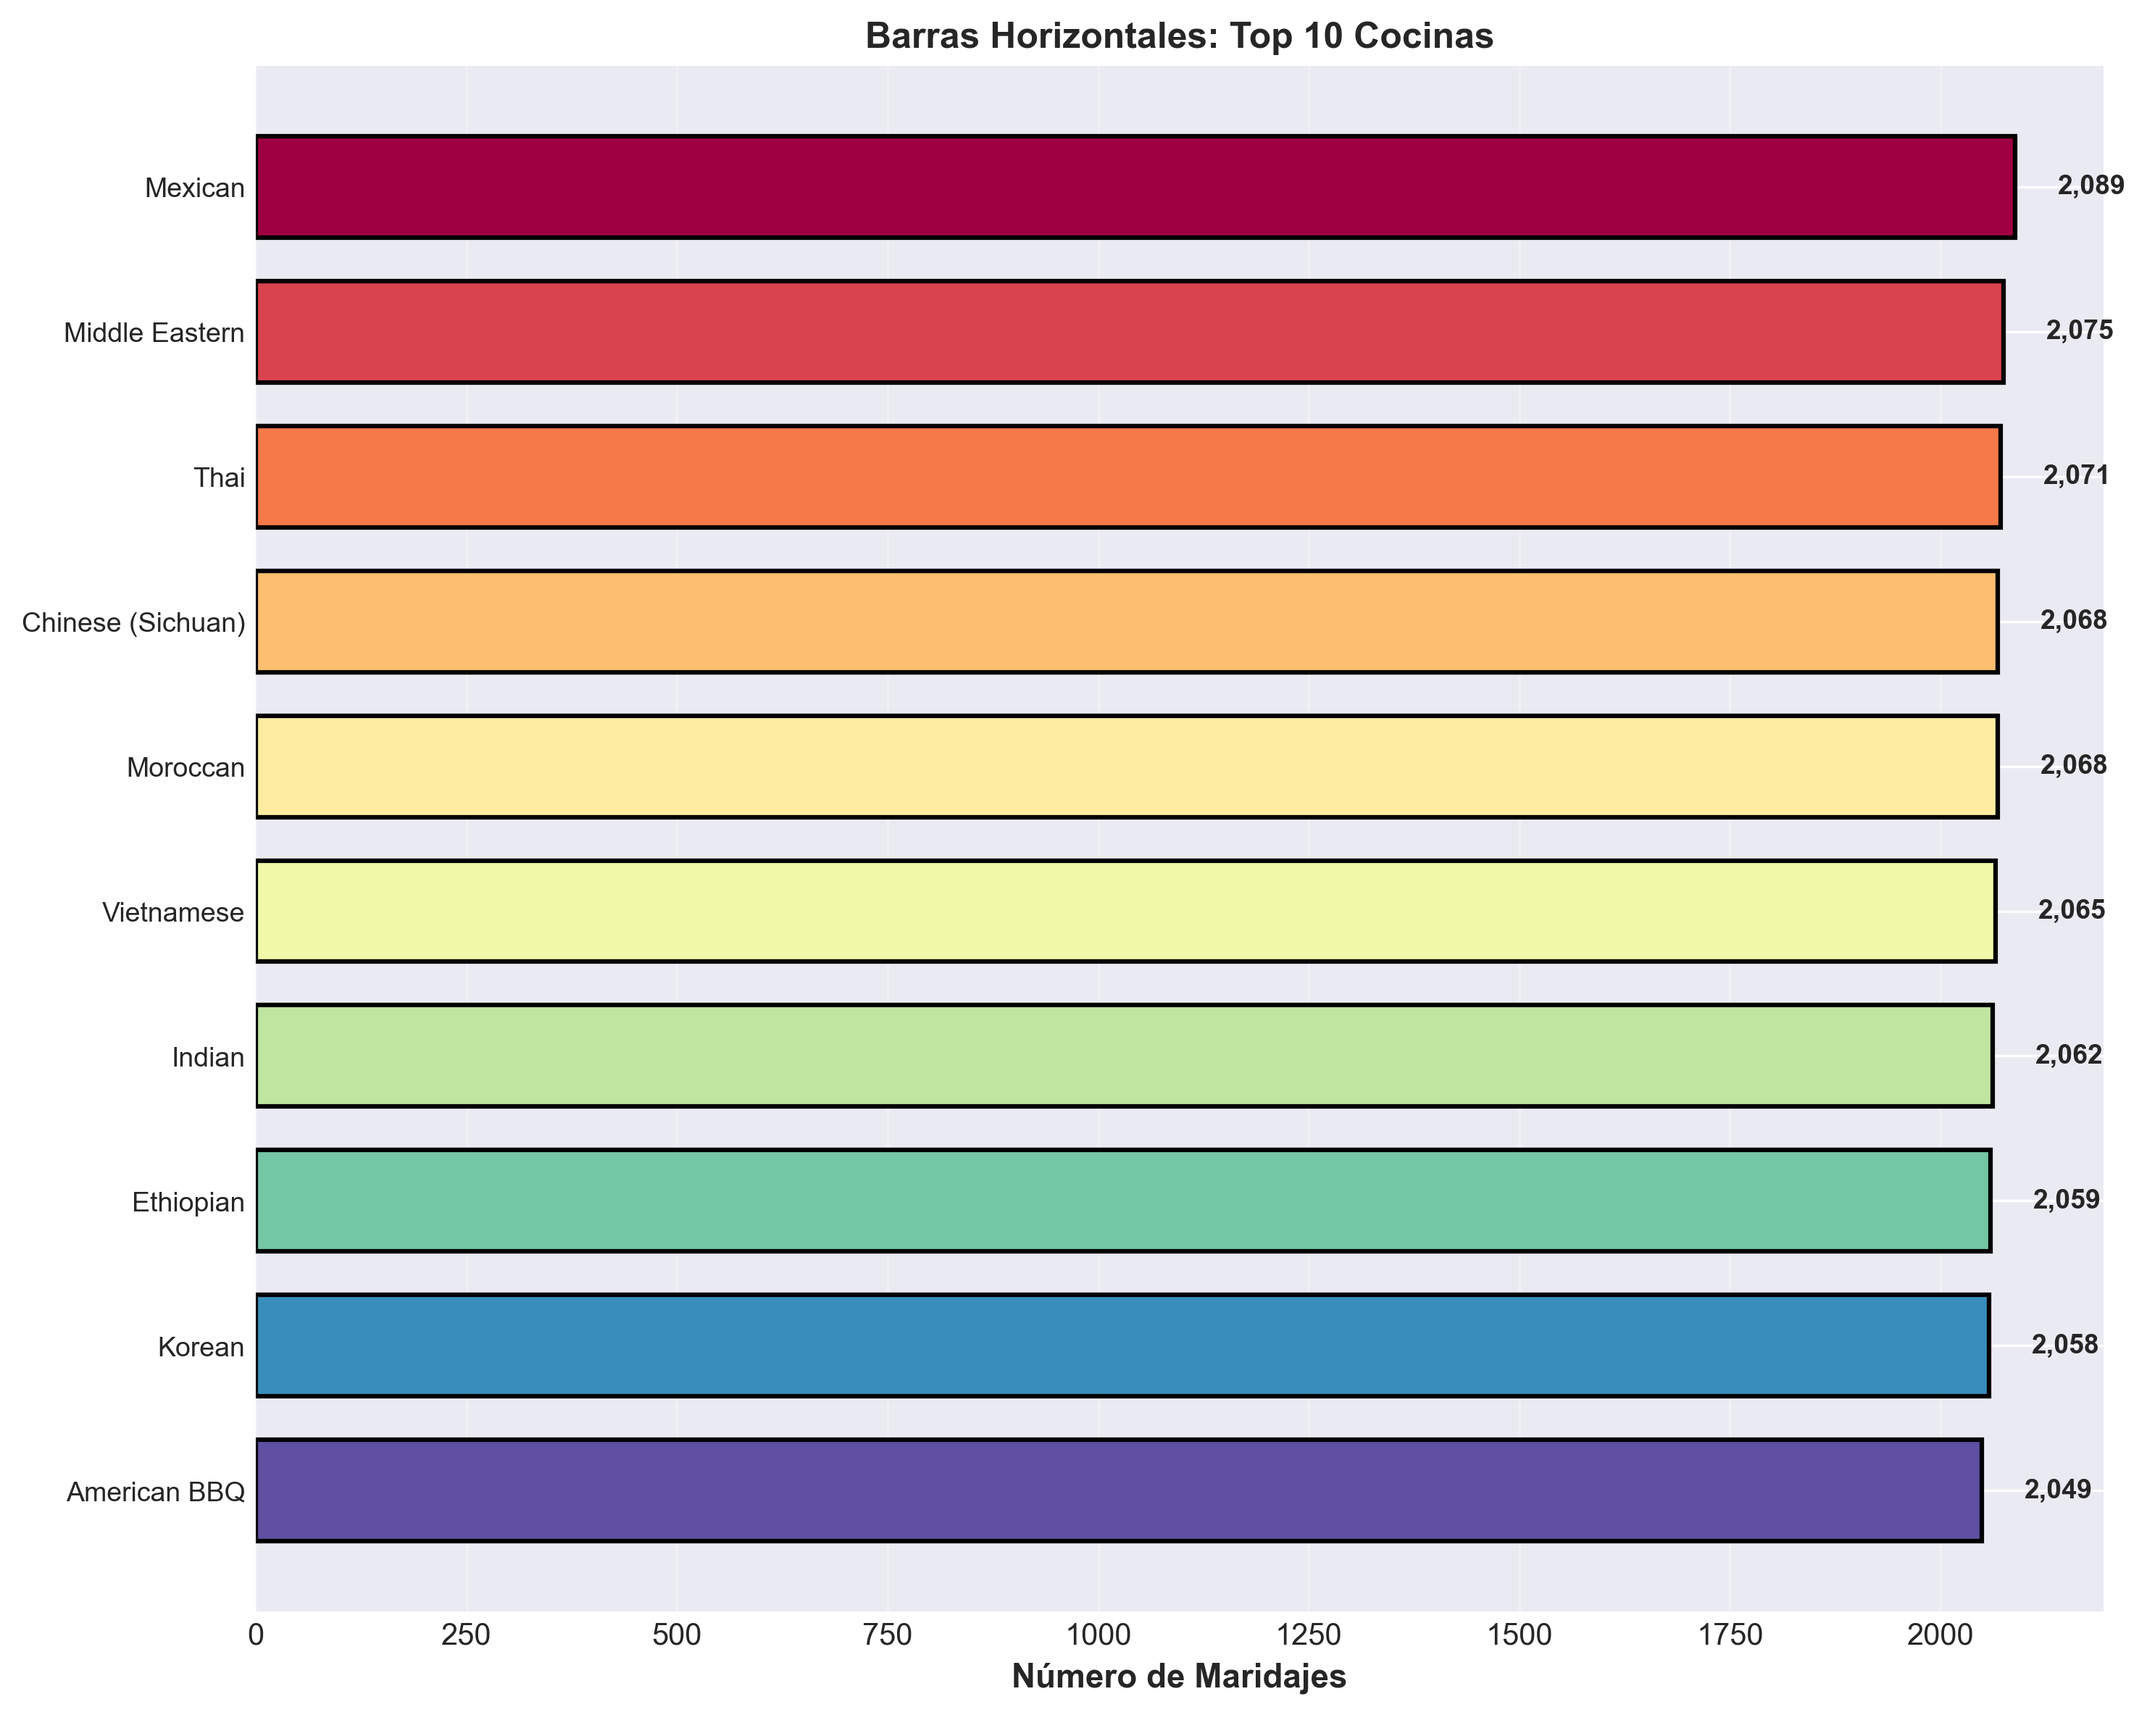
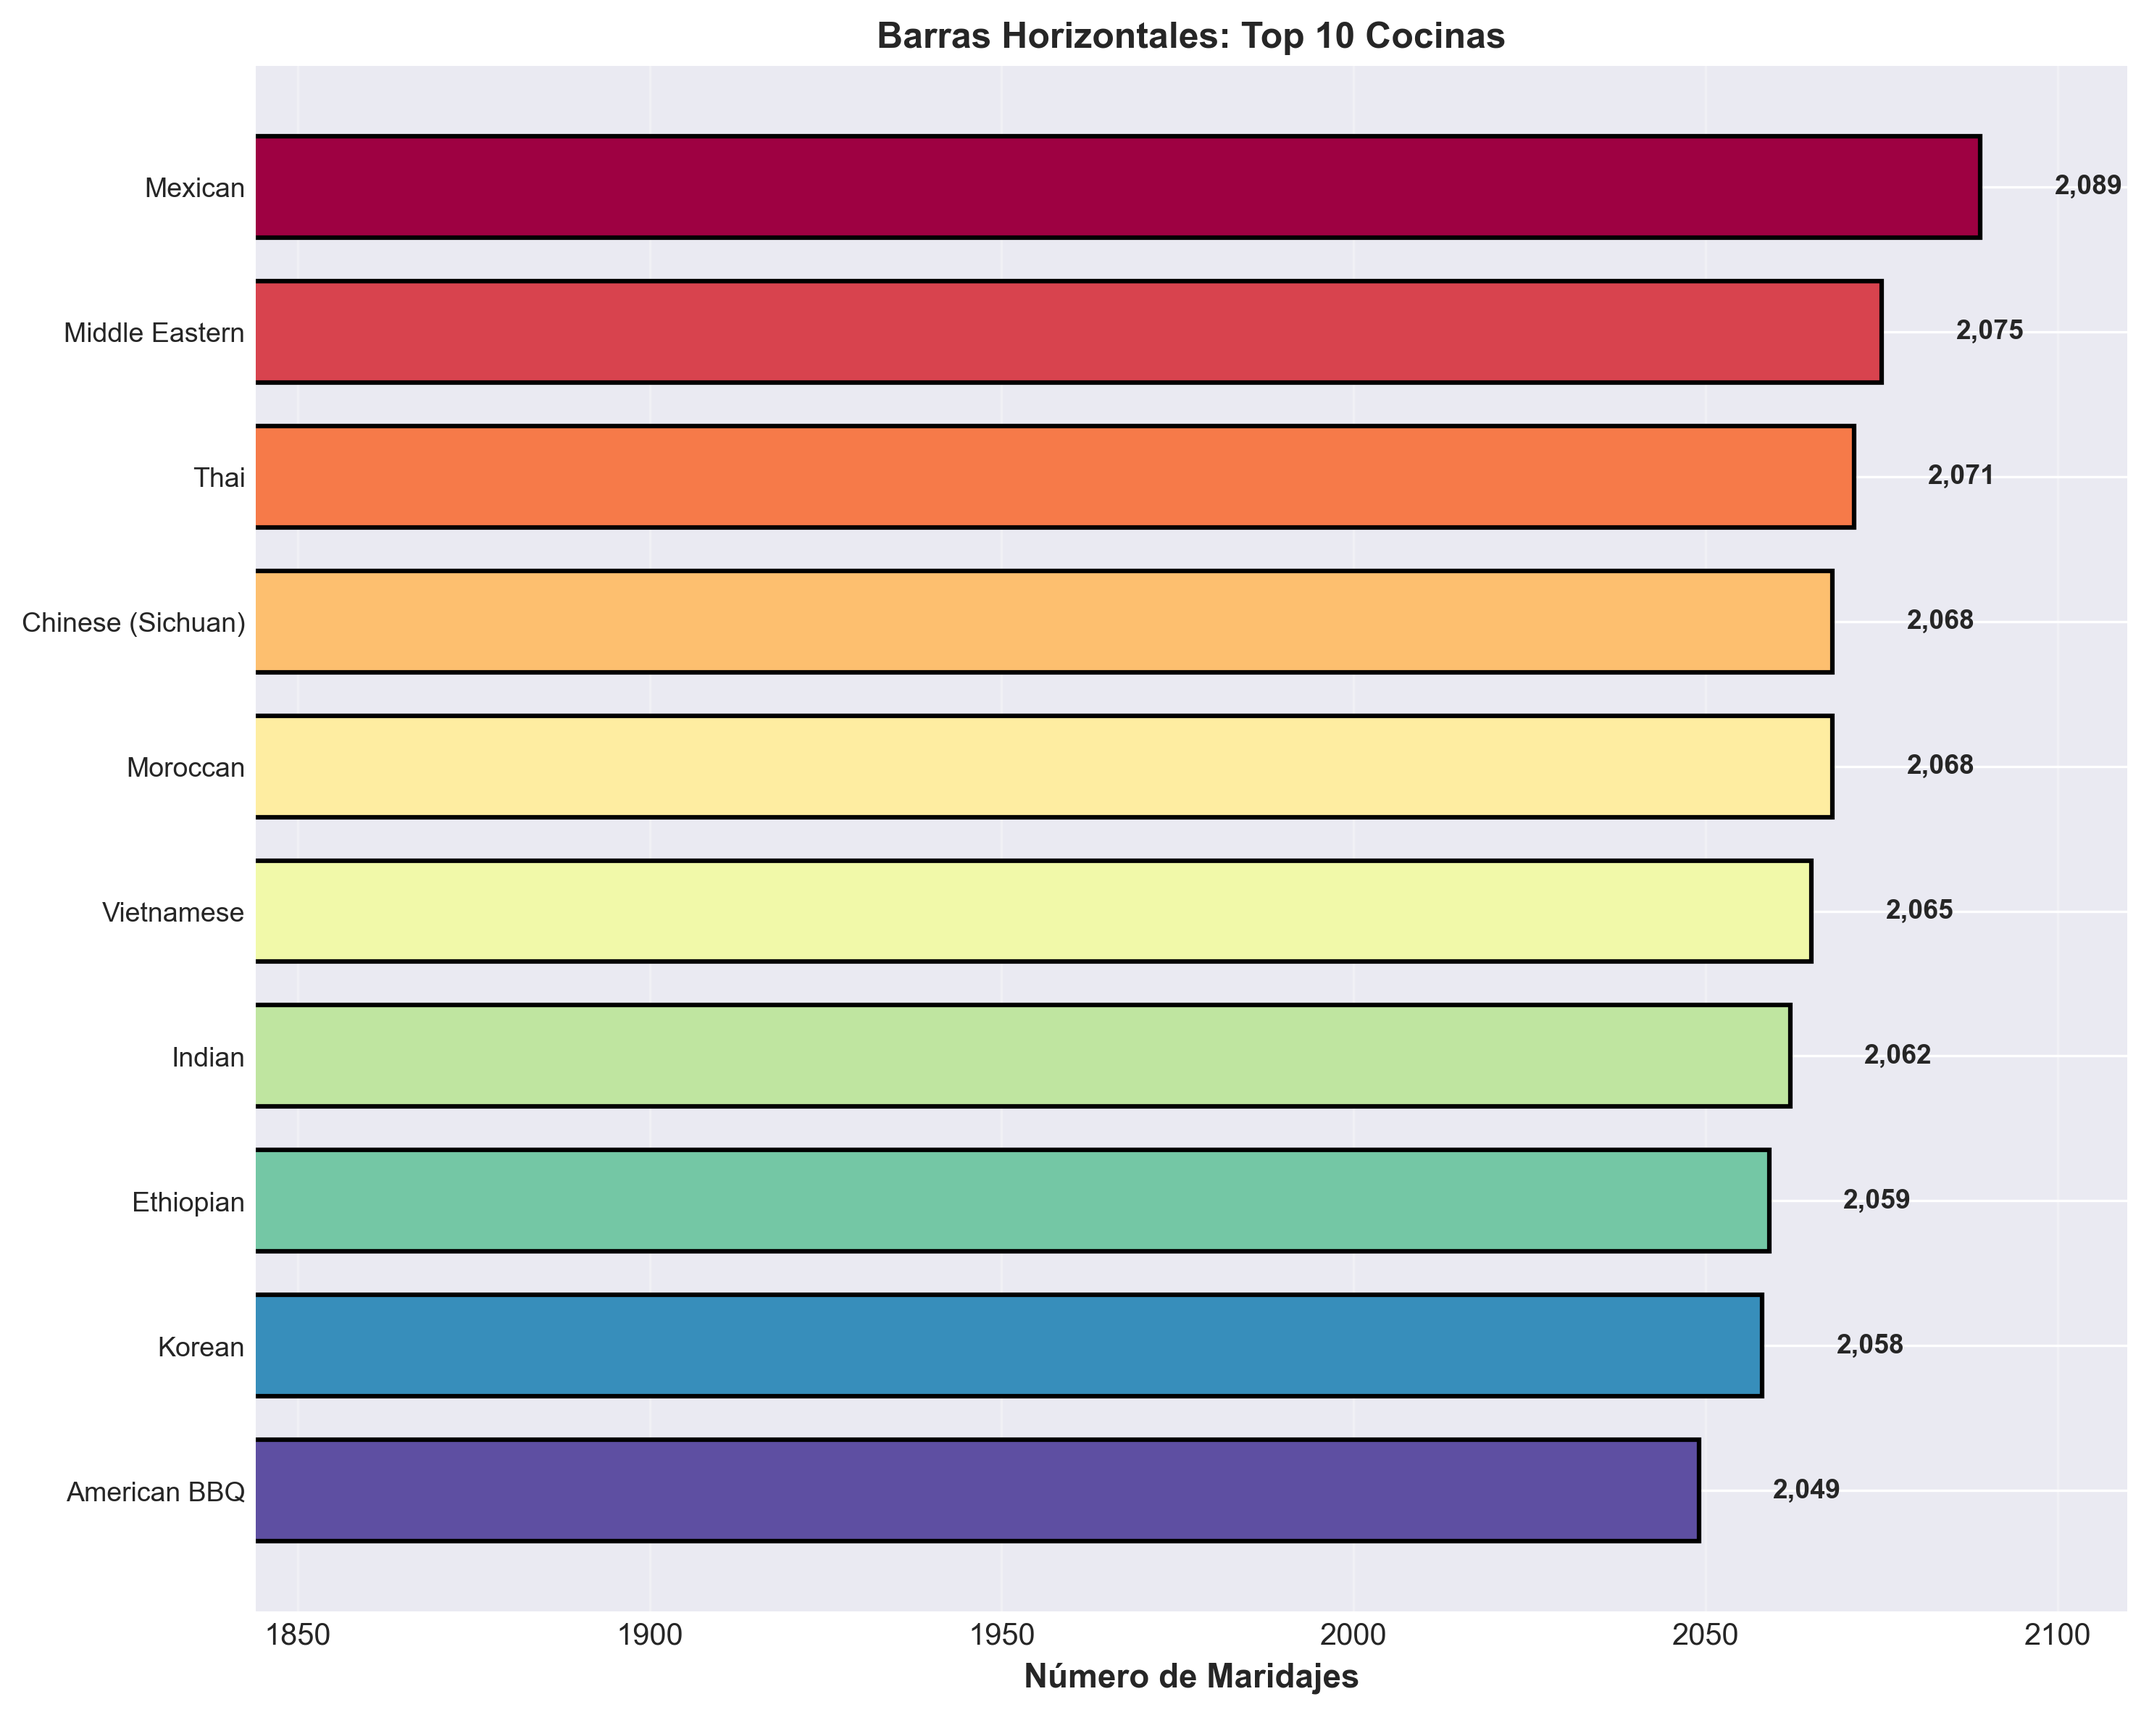
update

diff --git a/proyecto-vinos/app/sections/geografia/page.tsx b/proyecto-vinos/app/sections/geografia/page.tsx
@@ -25,8 +25,9 @@ export default function GeografiaPage() {
           <InteractiveEmbed
             src="/interactive/mapa_cuisines_mundial.html"
             title="Distribución Global de Cocinas"
-            description="Mapa interactivo mostrando la diversidad de cocinas por región geográfica"
-            notebook="visualizaciones_interactivas.ipynb"
+            description="Mapa interactivo mostrando la diversidad de cocinas por región geográfica,
+            asi como la cantidad de maridajes realizadas en cada una"
+            notebook="Fase_2.5.ipynb"
             section="Análisis Geográfico"
             height="700px"
           />
@@ -39,9 +40,10 @@ export default function GeografiaPage() {
           <InteractiveEmbed
             src="/interactive/distribucion_regional.html"
             title="Análisis por Regiones"
-            description="Visualización interactiva de la distribución de maridajes por región"
+            description="Visualización interactiva de la distribución de maridajes por región, 
+            mostrando las minimas diferencias de calidad entre ellas"
             notebook="visualizaciones_interactivas.ipynb"
-            section="Análisis Geográfico"
+            section="Fase_2.5.ipynb"
             height="650px"
           />
         </section>
@@ -54,8 +56,8 @@ export default function GeografiaPage() {
             src="/images/06_barras_horizontales.png"
             alt="Top cuisines"
             title="Cocinas Más Populares"
-            description="Las cocinas con mayor número de maridajes registrados"
-            notebook="analisis_maridajes.ipynb"
+            description="Top 10 cocinas con mayor número de maridajes registrados"
+            notebook="Fase_2.5.ipynb"
             section="Análisis Geográfico"
           />
         </section>
@@ -68,8 +70,8 @@ export default function GeografiaPage() {
             <div className="p-6 bg-card border border-border rounded-lg">
               <h4 className="font-semibold text-foreground mb-3">Europa Dominante</h4>
               <p className="text-sm text-muted-foreground">
-                Las cocinas europeas (italiana, francesa, española) lideran en número de maridajes,
-                reflejando la tradición vinícola del continente.
+                Las cocinas europeas (italiana, francesa, española) se encuentran en la segunda posición
+                del liderato en número de maridajes, reflejando la tradición vinícola del continente.
               </p>
             </div>
             <div className="p-6 bg-card border border-border rounded-lg">
